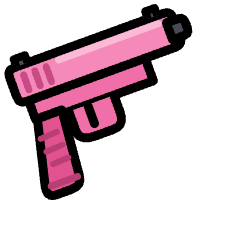
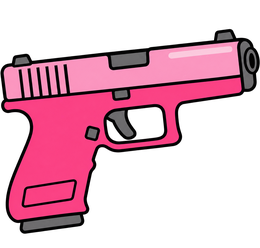
Glock, náboj i záblesk překreslené v ChatGPT; Albert dostane zbraň zdarma
Albert: kresba ze SVG neodpovídala ostatním zbraním. Všechny tři sprajty jsou
teď z ChatGPT, jedním chatem, se třemi hotovými zbraněmi hry jako předlohou stylu
(weapon_bat, weapon_grenade, weapon_hammer) — silný černý obrys, ploché barvy,
bez stínu:
- weapon_gun.png  260x248  růžový Glock z boku
- bullet.png      120x45   mosazný náboj
- e_gunflash.png  300x146  výstřelový záblesk (vlastní efekt, ne půjčený e_ringburst)

Všechny se narodily průhledné (skutečný alfa kanál, ověřeno), takže odmazávání
pozadí odpadlo. QA proti hotovým zbraním hry: díry 0-1.9 %, částečná alfa
0.6-2.7 % (grenade má 0.89 % / 3.97 %).

Engine: kotva sprajtu je nově per-zbraň (WANCHOR) — glock má rukojeť jinde než
pálka; nové souřadnice ústí a výhozného okna; míření podle změřeného úhlu
rukojeť->ústí; záblesk se natáčí podle hlavně. Když zbraň míří doleva, sprajt se
zrcadlí kolem osy hlavně, jinak by pistole stála vzhůru nohama.

Albert (vlastník) má glock zdarma jako ostatní nástroje; ostatní si ho kupují
za 100 PROKCHOPŮ.

diff --git a/src/pig/runtime.ts b/src/pig/runtime.ts
@@ -40,8 +40,13 @@ export const TOOLS = [
 export const DANCES = ['dance_wave', 'dance_ovcacek', 'dance_buckbuck', 'dance_twerk', 'dance_handstand', 'dance_ultratwerk'];
 
 // sprite px contact points (measured on the art, v6) — the same transform draws and tests
-// ústí hlavně a výhozné okno v px sprajtu weapon_gun.png (kotva je (48,183))
-const GUN_MUZZLE = [230, 80], GUN_EJECT = [70, 96];
+// ústí hlavně a výhozné okno v px sprajtu weapon_gun.png (260x248, kresba z ChatGPT)
+const GUN_MUZZLE = [256, 62], GUN_EJECT = [117, 58];
+// Kotva sprajtu (kde je kurzor) jako podíl šířky/výšky. Výchozí (.2,.8) sedí ostatním
+// zbraním; glock má rukojeť jinde, tak má vlastní hodnotu změřenou na obrázku.
+const WANCHOR = { gun: [0.2217, 0.68] };
+// úhel z rukojeti do ústí hlavně — o tolik se sprajt natáčí, aby mířil na cíl
+const GUN_AIM_OFF = 0.4846;
 const WCONTACT = { glove: [[125,18],[80,32],[170,32]], bat: [[212,28],[185,50],[228,18]],
   pan: [[140,80],[140,20],[140,140],[80,80],[200,80]], knife: [[205,42],[234,6],[160,88]],
   hammer: [[95,48],[111,31],[57,96]], chainsaw: [[232,18],[195,24],[155,40]] };
@@ -389,7 +394,7 @@ export class PigRuntime {
     this.parts.push({ kind: 'shell', x: ex, y: ey, vx: (100+Math.random()*170)*DPR, vy: -(430+Math.random()*170)*DPR,
                       rot: Math.random()*6.28, rvel: (Math.random()-.5)*26, t: 0, rang: false });
     this.recoil = .16; this.shake = Math.max(this.shake, 7);
-    this.fx('e_ringburst', mx, my, .22, .1);   // záblesk z hlavně (malý, jen cuknutí u ústí)
+    this.fxs.push({ key: 'e_gunflash', x: mx, y: my, t: 0, scale: .5, life: .1, rot: ang });  // záblesk z hlavně
     this.play('gun_shot', .8);
   }
   weaponM(w, u) { const im = this.IMG[w.img], s = .6*this.IS, DPR = this.DPR; let M = T(this.mx, this.my), ang = -.35;
@@ -397,10 +402,14 @@ export class PigRuntime {
     else if (w.kind === 'punch') { if (u > 0) { const bp = this.pigScreen(), d = Math.atan2(bp[1]-this.my, bp[0]-this.mx); M = mul(M, mul(ROT(d*57.29578+90), T(0, -Math.sin(u*Math.PI)*120*DPR))); } }
     else if (w.kind === 'saw') { const bp = this.pigScreen(); ang = Math.atan2(bp[1]-this.my, bp[0]-this.mx)+(this.held ? (Math.random()-.5)*.1 : 0); }
     else if (w.kind === 'gun') { const bp = this.pigScreen();
-      // sprajt míří o 0.515 rad nad osu kotva->ústí; zpětný ráz kopne hlavní nahoru
-      ang = Math.atan2(bp[1]-this.my, bp[0]-this.mx)+.515-(this.recoil||0)*2.4; }
+      // sprajt míří o GUN_AIM_OFF nad osu kotva->ústí; zpětný ráz kopne hlavní nahoru
+      ang = Math.atan2(bp[1]-this.my, bp[0]-this.mx)+GUN_AIM_OFF-(this.recoil||0)*2.4; }
     if (w.kind !== 'punch') M = mul(M, ROT(ang*57.29578));
-    return mul(M, mul(T(-im.width*s*.2, -im.height*s*.8), SCL(s, s))); }
+    // Zbraň mířící doleva by po otočení stála vzhůru nohama (u pistole to bije do očí),
+    // tak ji zrcadlíme kolem osy hlavně — pažbička pak míří dolů jako ve skutečnosti.
+    if (w.kind === 'gun' && Math.cos(ang) < 0) M = mul(M, SCL(1, -1));
+    const [ax, ay] = WANCHOR[w.id] || [.2, .8];
+    return mul(M, mul(T(-im.width*s*ax, -im.height*s*ay), SCL(s, s))); }
   weaponContact(w, u) { const M = this.weaponM(w, u); return (WCONTACT[w.id] || []).map(([x, y]) => apply(M, x, y)); }
   weaponHit(w, u) { for (const [x, y] of this.weaponContact(w, u)) { if (this.pigAtDev(x, y)) return [x, y]; } return null; }
 

diff --git a/src/pig/PigLayer.tsx b/src/pig/PigLayer.tsx
@@ -114,12 +114,11 @@ export default function PigLayer() {
   // jinak je to TDZ ("Cannot access 'counters' before initialization"), což
   // tsc nechytí, PigBoundary to spolkne a Prokchop jen tiše zmizí.
   const isOwner = uid === OWNER_USER_ID;
-  // placený nástroj (růžový glock) se musí koupit i Albertovi — jinak by ho nikdy nekupoval
+  // Albert má všechno (i placený glock, jeho rozhodnutí 2026-09-07); ostatní si ho kupují
   const unlocked = useCallback(
     (id: string) =>
-      TOOL_PRICES[id] !== undefined
-        ? progress.owned.includes(id)
-        : isOwner || isUnlocked(id, counters),
+      isOwner ||
+      (TOOL_PRICES[id] !== undefined ? progress.owned.includes(id) : isUnlocked(id, counters)),
     [isOwner, counters, progress.owned]
   );
   /** Albert má všechny čepice, ALE swagger brýle zůstávají odměnou za #1 prodejce —
